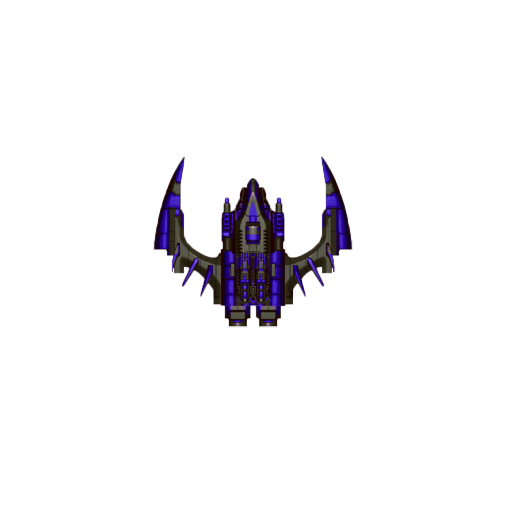
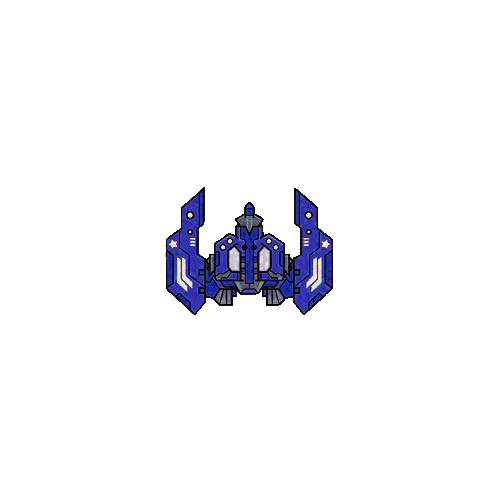
@akinsoen @jbarber07 @mvneste @mmassime change png & modif boss

Changed region(s): [[0.3, 0.3, 0.72, 0.66]]

diff --git a/graphical_modifications/DisplayGame.cpp b/graphical_modifications/DisplayGame.cpp
@@ -267,17 +267,17 @@ void DisplayGame::drawNewLevel(int tick,int levelTick,int currentLevel) {
 void DisplayGame::initGraphics(){
 	window = new sf::RenderWindow(sf::VideoMode(1000, 480), "L-TYPE");
 	window->setVerticalSyncEnabled(false);
-	
+
 	if (!texture.loadFromFile("healthbar.png"))
 	{
 		// error...
 	}
-	
+
 	if (!heart.loadFromFile("heart.png"))
 	{
 		// error...
 	}
-	
+
 	if (!font.loadFromFile("space_age.ttf"))
 	{
 		// erreur...
@@ -342,10 +342,10 @@ void DisplayGame::initGraphics(){
 	asteroidSprite.setScale(sf::Vector2f(0.14, 0.16));
 	asteroidSprite.setTexture(asteroid);
 
-	ship1Sprite.setScale(sf::Vector2f(0.19,0.19));
+	ship1Sprite.setScale(sf::Vector2f(0.22,0.30));
 	ship1Sprite.setTexture(ship1);
 
-	ship2Sprite.setScale(sf::Vector2f(0.19,0.19));
+	ship2Sprite.setScale(sf::Vector2f(0.22,0.30));
 	ship2Sprite.setTexture(ship2);
 
 	laserSprite.setScale(sf::Vector2f(0.06,0.04));
@@ -463,7 +463,7 @@ void DisplayGame::drawObstacle(int x, int y) {
 	sf::RectangleShape asteroidShape(sf::Vector2f(12.5*1.5,20*1.5));
 	asteroidShape.setFillColor(sf::Color(102,51,0));
 	asteroidShape.setPosition(sf::Vector2f((x+1)*12.5-3,y*20));
-	
+
 	if(y*20 < 350)
 		window->draw(asteroidSprite);
 
@@ -508,10 +508,10 @@ void DisplayGame::drawEnemy(int x, int y, int tick, bool isBlinking) {
 }
 void DisplayGame::drawProjectile(int x, int y, bool enemy, bool player1){
 	sf::RectangleShape projectileShape(sf::Vector2f(12.5,20));
-	
+
 	projectileShape.setPosition(sf::Vector2f((x+1)*12.5,5 + y*20));
-	
-	
+
+
 	if(enemy){
 		projectileShape.setFillColor(sf::Color::Red);
 		wattron(game_wnd, COLOR_PAIR(4));
@@ -519,7 +519,7 @@ void DisplayGame::drawProjectile(int x, int y, bool enemy, bool player1){
         wattroff(game_wnd, COLOR_PAIR(4));
 		laserSprite.setPosition(sf::Vector2f((x+1)*12.5+1,y*20+5));
 		window->draw(laserSprite);
-		
+
 	}
 	else if (player1) {
 		projectileShape.setFillColor(sf::Color::Blue);
@@ -537,10 +537,10 @@ void DisplayGame::drawProjectile(int x, int y, bool enemy, bool player1){
 		wattroff(game_wnd, COLOR_PAIR(2));
 		laser2Sprite.setPosition(sf::Vector2f((x+1)*12.5+1,y*20+5));
 		window->draw(laser2Sprite);
-		
+
 	}
 	//window->draw(projectileShape);
-	
+
 }
 void DisplayGame::drawPlayer(int player, int x , int y, int tick, bool isBlinking){
 
@@ -592,20 +592,19 @@ void DisplayGame::drawPlayer(int player, int x , int y, int tick, bool isBlinkin
 
 		sf::RectangleShape playerShipShape(sf::Vector2f(12.5*3,20*2));
 		playerShipShape.setPosition(sf::Vector2f(x*12.5,5 + y*20));
-		
+        //window->draw(playerShipShape);
 		if (player==1){
             playerShipShape.setFillColor(sf::Color::Blue);
-			ship1Sprite.setPosition(sf::Vector2f(x*12.5-30,5 + y*20-25));
+			ship1Sprite.setPosition(sf::Vector2f(x*12.5-36.5,5 + y*20-55));
 			window->draw(ship1Sprite);
         }
         else{
 			playerShipShape.setFillColor(sf::Color::Green);
-			ship2Sprite.setPosition(sf::Vector2f(x*12.5-30,5 + y*20-25));
+			ship2Sprite.setPosition(sf::Vector2f(x*12.5-36.5,5 + y*20-55));
 			window->draw(ship2Sprite);
 		}
-		
-		//window->draw(playerShipShape);
-		
+
+
 
 
 }
@@ -714,7 +713,7 @@ void DisplayGame::drawUi(int player, int hp, int score, int lives, int bonusType
 		health_bar.setTextureRect(rect);
 		//score
 		guiText.setString("Score: "+std::to_string(score));
-		guiText.setCharacterSize(20); 
+		guiText.setCharacterSize(20);
 		guiText.setColor(sf::Color::White);
 		guiText.setPosition(sf::Vector2f(13,440));
 		window->draw(guiText);
@@ -761,8 +760,8 @@ void DisplayGame::drawUi(int player, int hp, int score, int lives, int bonusType
 				}
 			}
 		}
-		
-		
+
+
 
 
 	}
@@ -888,7 +887,6 @@ void DisplayGame::drawEnergyBar(int a) {
 }
 
 void DisplayGame::drawEndGame(std::string score){
-
 	guiText.setString("GAME OVER");
 	guiText.setCharacterSize(20);
 	guiText.setColor(sf::Color::White);
@@ -911,5 +909,5 @@ void DisplayGame::drawEndGame(std::string score){
     mvwprintw(game_wnd,9, 35,"SCORE : %i", std::stoi(score));
     mvwprintw(game_wnd,12, 32,"press p to quit");
     refreshWnd();
-    
+
 }
